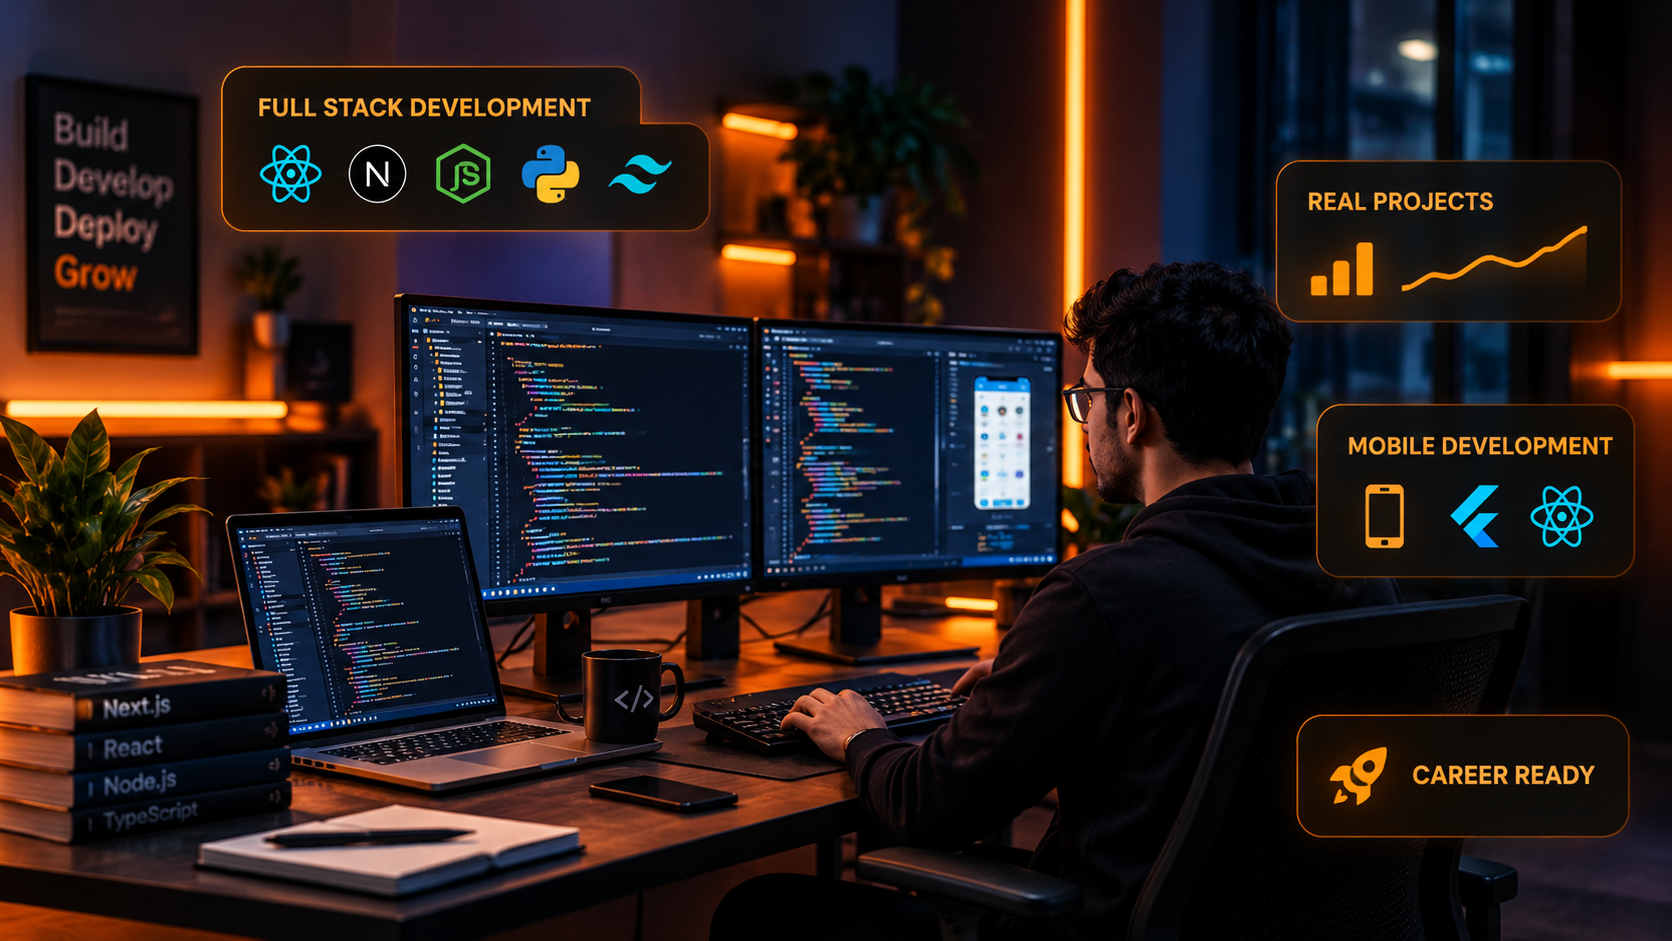
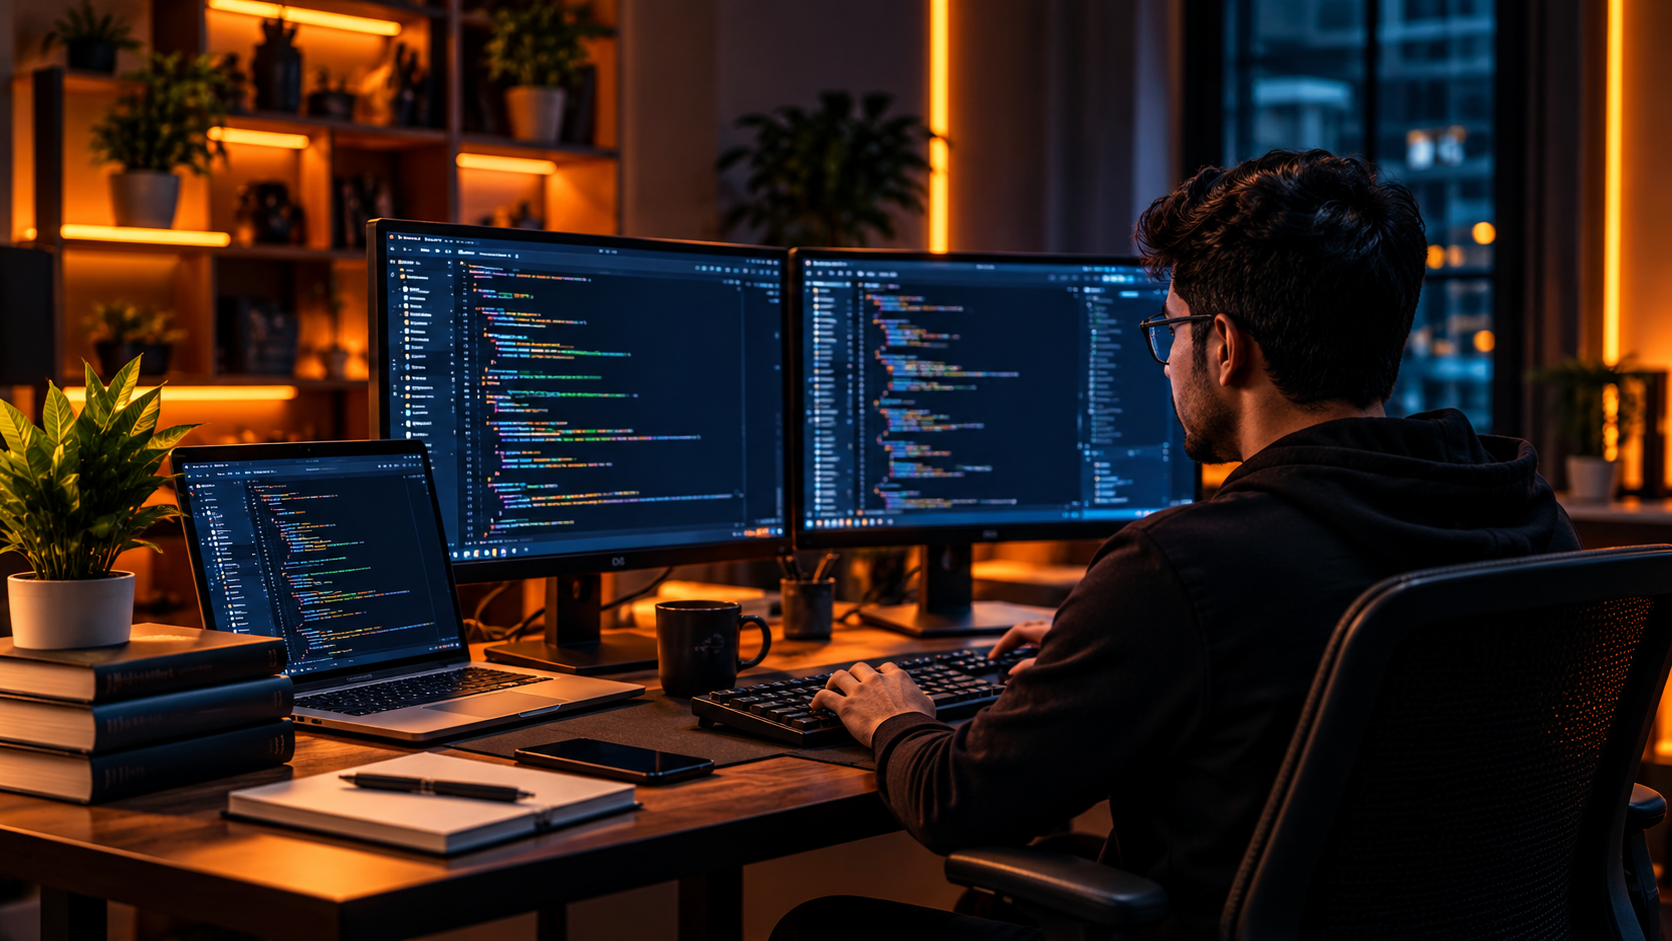
Update hero image to Moody Cinematic Developer Workstation

diff --git a/course-details.html b/course-details.html
@@ -11,7 +11,7 @@
   <link rel="canonical" href="https://www.sinet.in/software-engineering-course-in-perinthalmanna-malappuram/professional-diploma-in-software-engineering.html">
   <meta property="og:title" content="PDISE - Professional Diploma in Software Engineering | SINET Education">
   <meta property="og:description" content="Build a career in software engineering. 12 Months (800 Hours) Offline Classroom Training with hands-on internship project &amp; placement training at SINET.">
-  <meta property="og:image" content="images/hero-analyst.jpg">
+  <meta property="og:image" content="images/pdise-hero.png">
   <meta property="og:type" content="website">
   
   <!-- Favicon / Fonts -->
